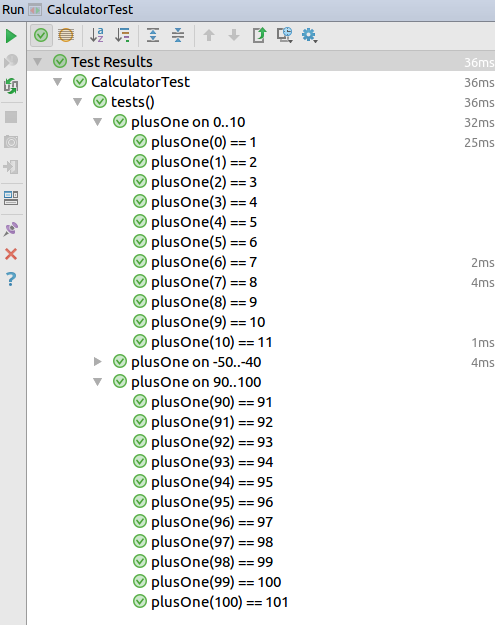
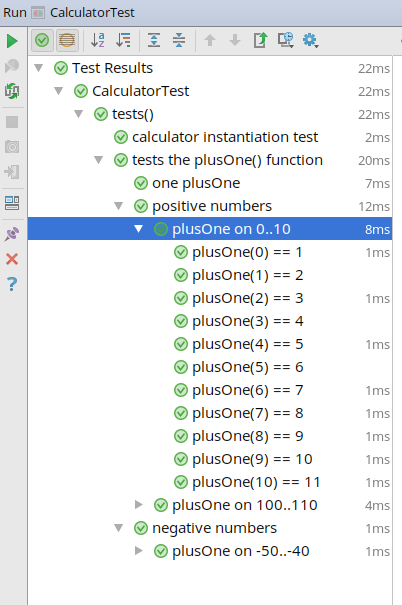
updated calculator test; added javadoc

Changed region(s): [[0.0, 0.0, 1.0, 0.9818], [0.8955, 0.6248, 0.9851, 0.9223], [0.9254, 0.5355, 1.0, 0.595]]

diff --git a/src/test/kotlin/CalculatorTest.kt b/src/test/kotlin/CalculatorTest.kt
@@ -6,21 +6,57 @@ class Calculator {
     fun close() {}
 }
 
+/**
+ * A test case.
+ */
 class CalculatorTest : DynaTest({
-    calculatorBattery(0..10)
-    calculatorBattery(-50..-40)
-    calculatorBattery(90..100)
+
+    /**
+     * Top-level test.
+     */
+    test("calculator instantiation test") {
+        Calculator()
+    }
+
+    // you can have as many groups as you like, and you can nest them
+    group("tests the plusOne() function") {
+
+        // demo of the very simple test
+        test("one plusOne") {
+            expect(2) { Calculator().plusOne(1) }
+        }
+
+        // nested group
+        group("positive numbers") {
+            // you can even create a reusable test battery, call it from anywhere and use any parameters you like.
+            calculatorBattery(0..10)
+            calculatorBattery(100..110)
+        }
+
+        group("negative numbers") {
+            calculatorBattery(-50..-40)
+        }
+    }
 })
 
+/**
+ * Demonstrates a reusable test battery which can be called repeatedly and parametrized.
+ * @receiver all tests+groups do not run immediately, but instead they register themselves to this group; they are run later on
+ * when launched by JUnit5
+ * @param range parametrized battery demo
+ */
 fun DynaNodeGroup.calculatorBattery(range: IntRange) {
-    kotlin.require(!range.isEmpty())
+    require(!range.isEmpty())
 
     group("plusOne on $range") {
         lateinit var c: Calculator
 
+        // analogous to @Before in JUnit4, or @BeforeEach in JUnit5
         beforeEach { c = Calculator() }
+        // analogous to @After in JUnit4, or @AfterEach in JUnit5
         afterEach { c.close() }
 
+        // we can even generate test cases in a loop
         for (i in range) {
             test("plusOne($i) == ${i + 1}") {
                 expect(i + 1) { c.plusOne(i) }

diff --git a/src/main/kotlin/DynaTest.kt b/src/main/kotlin/DynaTest.kt
@@ -42,6 +42,11 @@ class DynaNodeTest internal constructor(name: String, ctx: TestContext, private 
 class DynaNodeGroup internal constructor(name: String, ctx: TestContext) : DynaNode(name, ctx) {
     internal val nodes = mutableListOf<DynaNode>()
     override fun toDynamicNode(): DynamicNode = DynamicContainer.dynamicContainer(name, nodes.map { it.toDynamicNode() })
+    /**
+     * Generates a test case with given [name] and registers it within this group. Does not run the test case immediately -
+     * the test is only registered for being run later on by JUnit5 runner (or by [runTests]).
+     * @param body run when the test case is run
+     */
     fun test(name: String, body: ()->Unit) {
         nodes.add(DynaNodeTest(name, ctx, body))
     }
@@ -50,6 +55,11 @@ class DynaNodeGroup internal constructor(name: String, ctx: TestContext) : DynaN
         group.block()
         nodes.add(group)
     }
+
+    /**
+     * Registers a block which will be run before every test registered to this group and to any nested groups.
+     * @param block the block to run. Any exceptions thrown by the block will make the test fail. @todo mavi run afterEach in case of failure?
+     */
     fun beforeEach(block: ()->Unit) {
         ctx.beforeEach.add(block)
     }
@@ -71,6 +81,9 @@ abstract class DynaTest(block: DynaNodeGroup.()->Unit) {
     fun tests(): List<DynamicNode> = root.nodes.map { it.toDynamicNode() }
 }
 
+/**
+ * A very simple test support, simply runs all registered tests immediately; bails out at first failed test.
+ */
 fun runTests(block: DynaNodeGroup.()->Unit) {
     val group = DynaNodeGroup("root", TestContext.EMPTY)
     group.block()

diff --git a/README.md b/README.md
@@ -2,7 +2,8 @@
 
 [![Build Status](https://travis-ci.org/mvysny/dynatest.svg?branch=master)](https://travis-ci.org/mvysny/dynatest)
 
-Kotlin-based piggybacking on JUnit5 dynamic test support. Experimental, unreleased, pretty much a playground. Code example:
+Kotlin-based piggybacking on JUnit5 dynamic test support. Experimental, unreleased, pretty much a playground.
+Code example of the [CalculatorTest.kt](src/test/kotlin/CalculatorTest.kt):
 
 ```kotlin
 class Calculator {
@@ -10,21 +11,57 @@ class Calculator {
     fun close() {}
 }
 
+/**
+ * A test case.
+ */
 class CalculatorTest : DynaTest({
-    calculatorBattery(0..10)
-    calculatorBattery(-50..-40)
-    calculatorBattery(90..100)
+
+    /**
+     * Top-level test.
+     */
+    test("calculator instantiation test") {
+        Calculator()
+    }
+
+    // you can have as many groups as you like, and you can nest them
+    group("tests the plusOne() function") {
+
+        // demo of the very simple test
+        test("one plusOne") {
+            expect(2) { Calculator().plusOne(1) }
+        }
+
+        // nested group
+        group("positive numbers") {
+            // you can even create a reusable test battery, call it from anywhere and use any parameters you like.
+            calculatorBattery(0..10)
+            calculatorBattery(100..110)
+        }
+
+        group("negative numbers") {
+            calculatorBattery(-50..-40)
+        }
+    }
 })
 
+/**
+ * Demonstrates a reusable test battery which can be called repeatedly and parametrized.
+ * @receiver all tests+groups do not run immediately, but instead they register themselves to this group; they are run later on
+ * when launched by JUnit5
+ * @param range parametrized battery demo
+ */
 fun DynaNodeGroup.calculatorBattery(range: IntRange) {
-    kotlin.require(!range.isEmpty())
+    require(!range.isEmpty())
 
     group("plusOne on $range") {
         lateinit var c: Calculator
 
+        // analogous to @Before in JUnit4, or @BeforeEach in JUnit5
         beforeEach { c = Calculator() }
+        // analogous to @After in JUnit4, or @AfterEach in JUnit5
         afterEach { c.close() }
 
+        // we can even generate test cases in a loop
         for (i in range) {
             test("plusOne($i) == ${i + 1}") {
                 expect(i + 1) { c.plusOne(i) }
